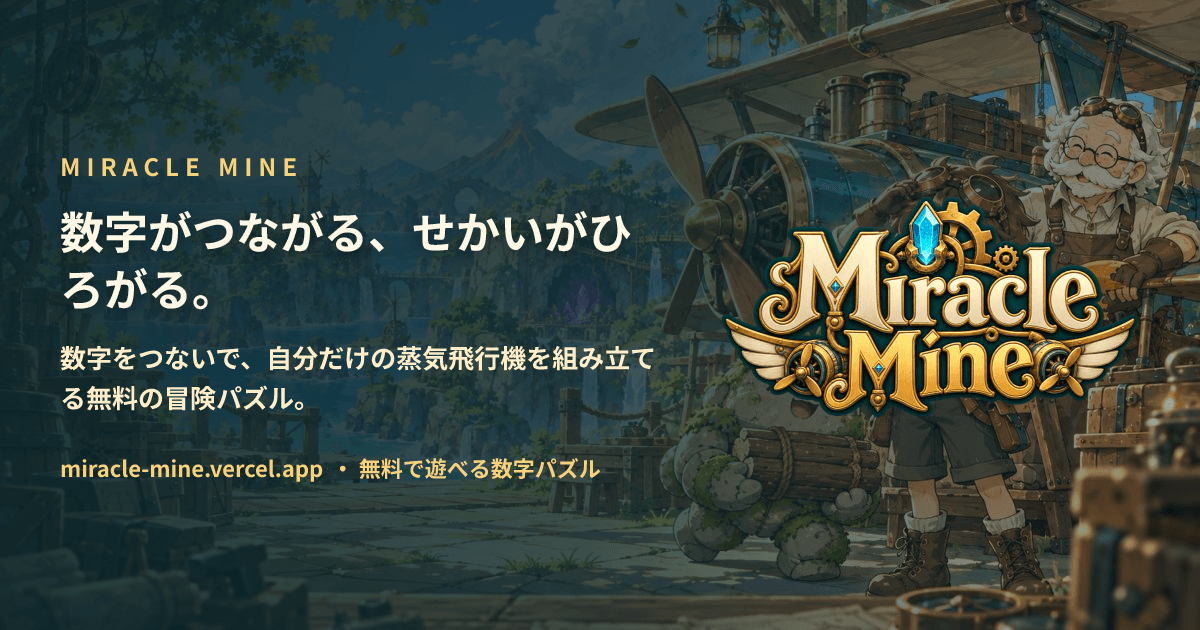
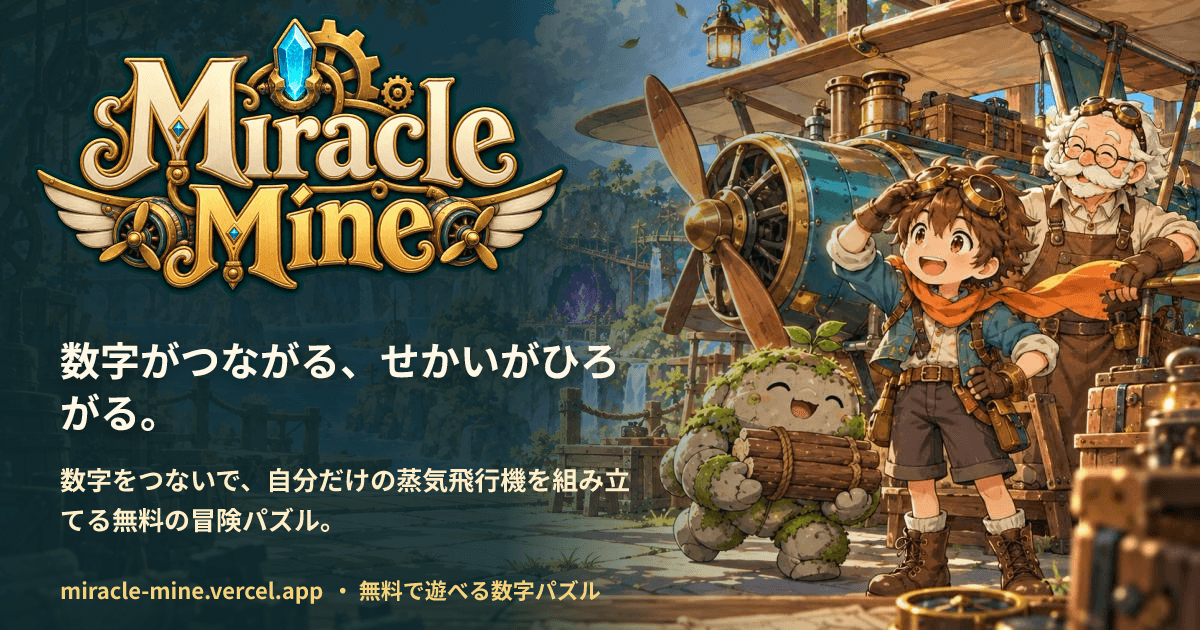
Keep the cast visible on share cards
The title card now places the logo in the text column so Luka, Toto and
Mos stay uncovered on the right, and stage, chapter, workshop and save
cards use the character-free scenery cells instead of the workshop
illustration, so the airplane panel never sits on top of a character.

Claude-Session: https://claude.ai/code/session_01XU6vtfhLG2vVKNvrykoQjh

diff --git a/server/share-card.js b/server/share-card.js
@@ -56,20 +56,23 @@ export const planeImage=(level,design,background='#fff8e9')=>memo(`plane:${level
  return sharp({create:{width:PLANE_W,height:PLANE_H,channels:3,background}}).composite(layers).png().toBuffer();
 });
 const scenery=name=>memo('scene:'+name,async()=>dataUri(await sharp(await asset(name)).resize(WIDTH,HEIGHT,{fit:'cover'}).jpeg({quality:72}).toBuffer(),'image/jpeg'));
-const logo=()=>memo('logo',async()=>dataUri(await sharp(await asset('title-logo.webp')).resize({width:420}).png().toBuffer()));
+/* Character-free scenery cells (workshop, forest, harbor, cavern, forge, sky) so the card panel never covers the cast. */
+const worldScene=cell=>memo('world:'+cell,async()=>dataUri(await sharp(await asset('dialogue-worlds.webp')).extract({left:cell%3*724,top:Math.floor(cell/3)*362,width:724,height:362}).resize(WIDTH,HEIGHT,{fit:'cover'}).jpeg({quality:78}).toBuffer(),'image/jpeg'));
+const logo=()=>memo('logo',async()=>dataUri(await sharp(await asset('title-logo.webp')).resize({width:540}).png().toBuffer()));
 const treasureImage=i=>memo('treasure:'+i,async()=>dataUri(await sharp(await asset('sky-treasures.webp')).extract({left:i%3*256,top:Math.floor(i/3)*256,width:256,height:256}).resize(150,150).png().toBuffer()));
 
 const h=(type,style,children)=>({type,props:{style,children}});
 const text=(value,style)=>h('div',{display:'flex',...style},value);
 export async function shareCardElement(value){
  const s=normalizeSnapshot(value)||normalizeSnapshot({kind:'title'}),copy=shareCopy(s);
- const scene=await scenery(copy.scene==='sky'?'sky-world.webp':'workshop.webp');
+ // The title card keeps Luka, Toto and Mos visible on the right; every other card uses an empty scenery cell.
+ const scene=s.kind==='title'?await scenery('workshop.webp'):copy.scene==='sky'?await scenery('sky-world.webp'):await worldScene(copy.scene==='chapter'?s.chapter+1:0);
  const ink='#fff8e6',gold='#f6d27a',panel='#fff8e9';
  const headlineSize=copy.headline.length>22?36:copy.headline.length>13?44:Math.min(62,Math.floor(620/copy.headline.length));
  const chips=copy.chips.map(label=>text(label,{padding:'8px 18px',borderRadius:999,background:'rgba(255,248,230,0.16)',border:'2px solid rgba(246,210,122,0.7)',color:ink,fontSize:24,marginRight:12}));
  let visual;
  if(s.kind==='title'){
-  visual={type:'img',props:{src:await logo(),width:420,height:280,style:{filter:'drop-shadow(0 12px 24px rgba(0,0,0,0.45))'}}};
+  visual=h('div',{display:'flex',width:10},undefined);
  }else if(s.kind==='treasure'){
   const cells=treasures.map((t,i)=>h('div',{display:'flex',flexDirection:'column',alignItems:'center',width:130,margin:'6px 4px',opacity:s.treasures.includes(i)?1:0.28},[
    {type:'img',props:{src:'',width:96,height:96,style:{filter:s.treasures.includes(i)?'none':'grayscale(1)'}}},
@@ -84,11 +87,11 @@ export async function shareCardElement(value){
  }
  return h('div',{display:'flex',width:WIDTH,height:HEIGHT,position:'relative',fontFamily:'Noto Sans JP',color:ink},[
   {type:'img',props:{src:scene,width:WIDTH,height:HEIGHT,style:{position:'absolute',top:0,left:0,objectFit:'cover'}}},
-  h('div',{position:'absolute',top:0,left:0,width:WIDTH,height:HEIGHT,background:'linear-gradient(100deg, rgba(10,38,44,0.93) 0%, rgba(10,38,44,0.80) 52%, rgba(10,38,44,0.35) 100%)'},undefined),
+  h('div',{position:'absolute',top:0,left:0,width:WIDTH,height:HEIGHT,background:s.kind==='title'?'linear-gradient(90deg, rgba(10,38,44,0.94) 0%, rgba(10,38,44,0.88) 42%, rgba(10,38,44,0.30) 58%, rgba(10,38,44,0.05) 75%, rgba(10,38,44,0) 100%)':'linear-gradient(100deg, rgba(10,38,44,0.93) 0%, rgba(10,38,44,0.80) 52%, rgba(10,38,44,0.35) 100%)'},undefined),
   h('div',{display:'flex',position:'absolute',top:0,left:0,width:WIDTH,height:HEIGHT,padding:'54px 60px',alignItems:'center',justifyContent:'space-between'},[
-   h('div',{display:'flex',flexDirection:'column',width:s.kind==='title'?620:640,paddingRight:20},[
-    text(copy.eyebrow,{fontSize:24,letterSpacing:6,color:gold}),
-    text(copy.headline,{fontSize:headlineSize,lineHeight:1.3,marginTop:18,textShadow:'0 4px 14px rgba(0,0,0,0.45)',...(copy.headline.length>13?{lineClamp:2}:{whiteSpace:'nowrap'})}),
+   h('div',{display:'flex',flexDirection:'column',width:s.kind==='title'?600:640,paddingRight:20},[
+    s.kind==='title'?{type:'img',props:{src:await logo(),width:540,height:360,style:{marginLeft:-30,marginTop:-40,marginBottom:-30,filter:'drop-shadow(0 10px 20px rgba(0,0,0,0.5))'}}}:text(copy.eyebrow,{fontSize:24,letterSpacing:6,color:gold}),
+    text(copy.headline,{fontSize:s.kind==='title'?40:headlineSize,lineHeight:1.3,marginTop:18,textShadow:'0 4px 14px rgba(0,0,0,0.45)',...(copy.headline.length>13?{lineClamp:2}:{whiteSpace:'nowrap'})}),
     text(copy.caption,{fontSize:26,lineHeight:1.55,marginTop:22,color:'#ffeec9',maxWidth:600}),
     chips.length?h('div',{display:'flex',flexWrap:'wrap',marginTop:26},chips):h('div',{display:'flex'},undefined),
     text('miracle-mine.vercel.app ・ 無料で遊べる数字パズル',{fontSize:22,marginTop:34,color:gold})
